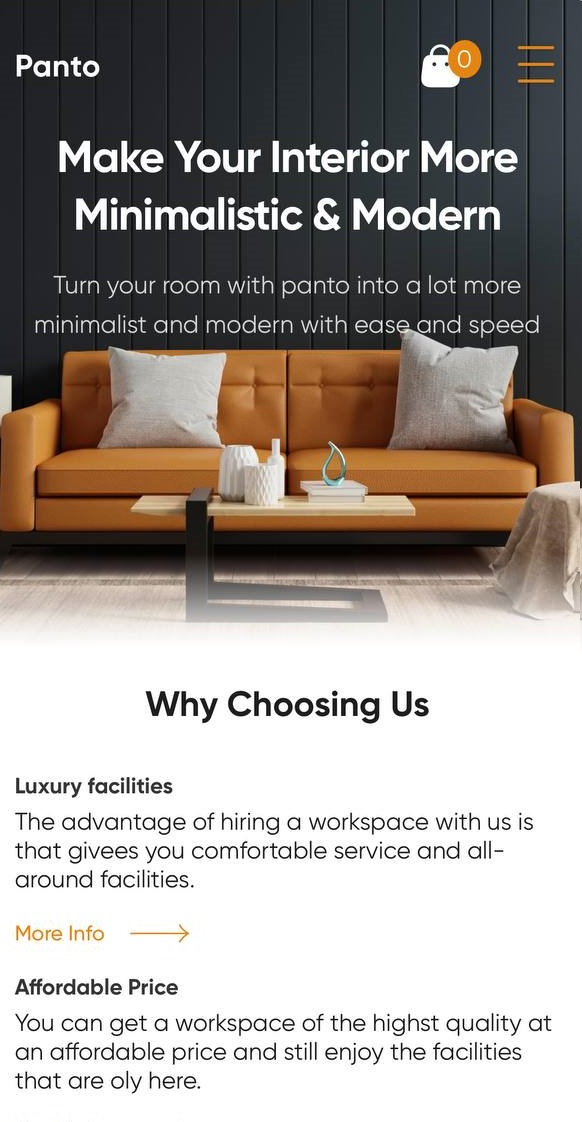
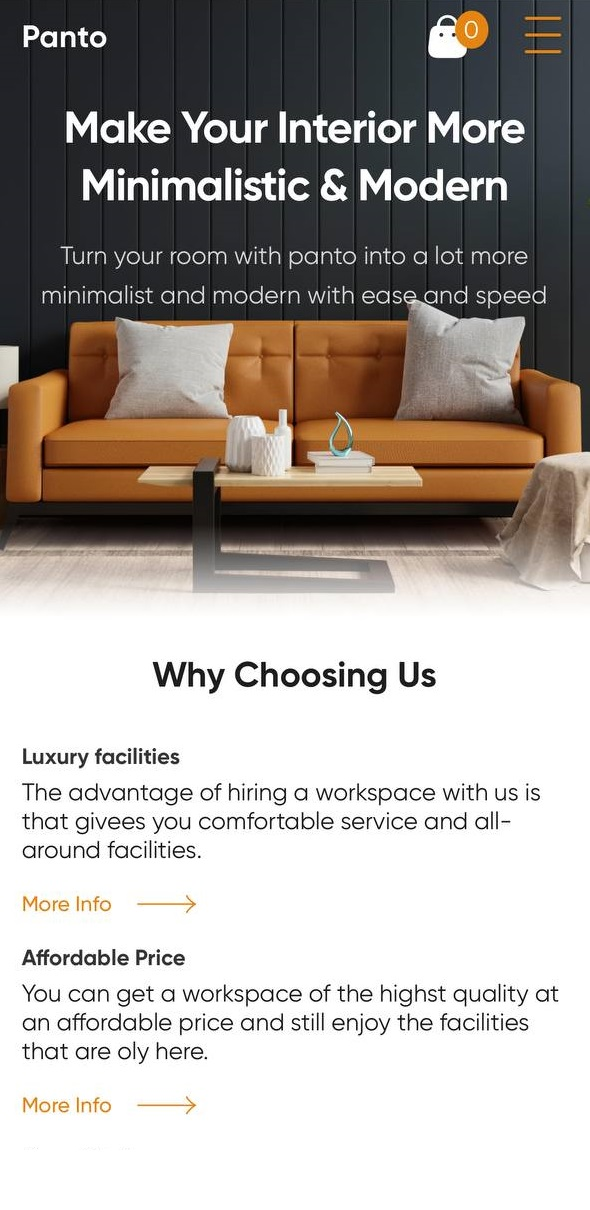
Add files via upload

diff --git a/src/scss/blocks/_card.scss b/src/scss/blocks/_card.scss
@@ -18,15 +18,14 @@
     overflow: hidden;
     border-radius: 20px;
     transition: transform .3s ease;
-    z-index: 10;
+    z-index: 999;
 
     &:hover {
         transform: scale(1.1);
     }
 
     @include mediaMobileXXS {
-        padding-top: 3px;
-        height: 100%;
+        height: 95%;
     }
 }
 

diff --git a/src/scss/blocks/_home.scss b/src/scss/blocks/_home.scss
@@ -59,8 +59,9 @@
 
 .home__subtitle {
     text-align: center;
-    font-size: 28px;
+    font-size: clamp(20px, 1.068rem + 0.91vw, 28px);
     font-weight: 300;
+    text-wrap: balance;
     letter-spacing: 0.36px;
     margin-bottom: 88px;
 }
